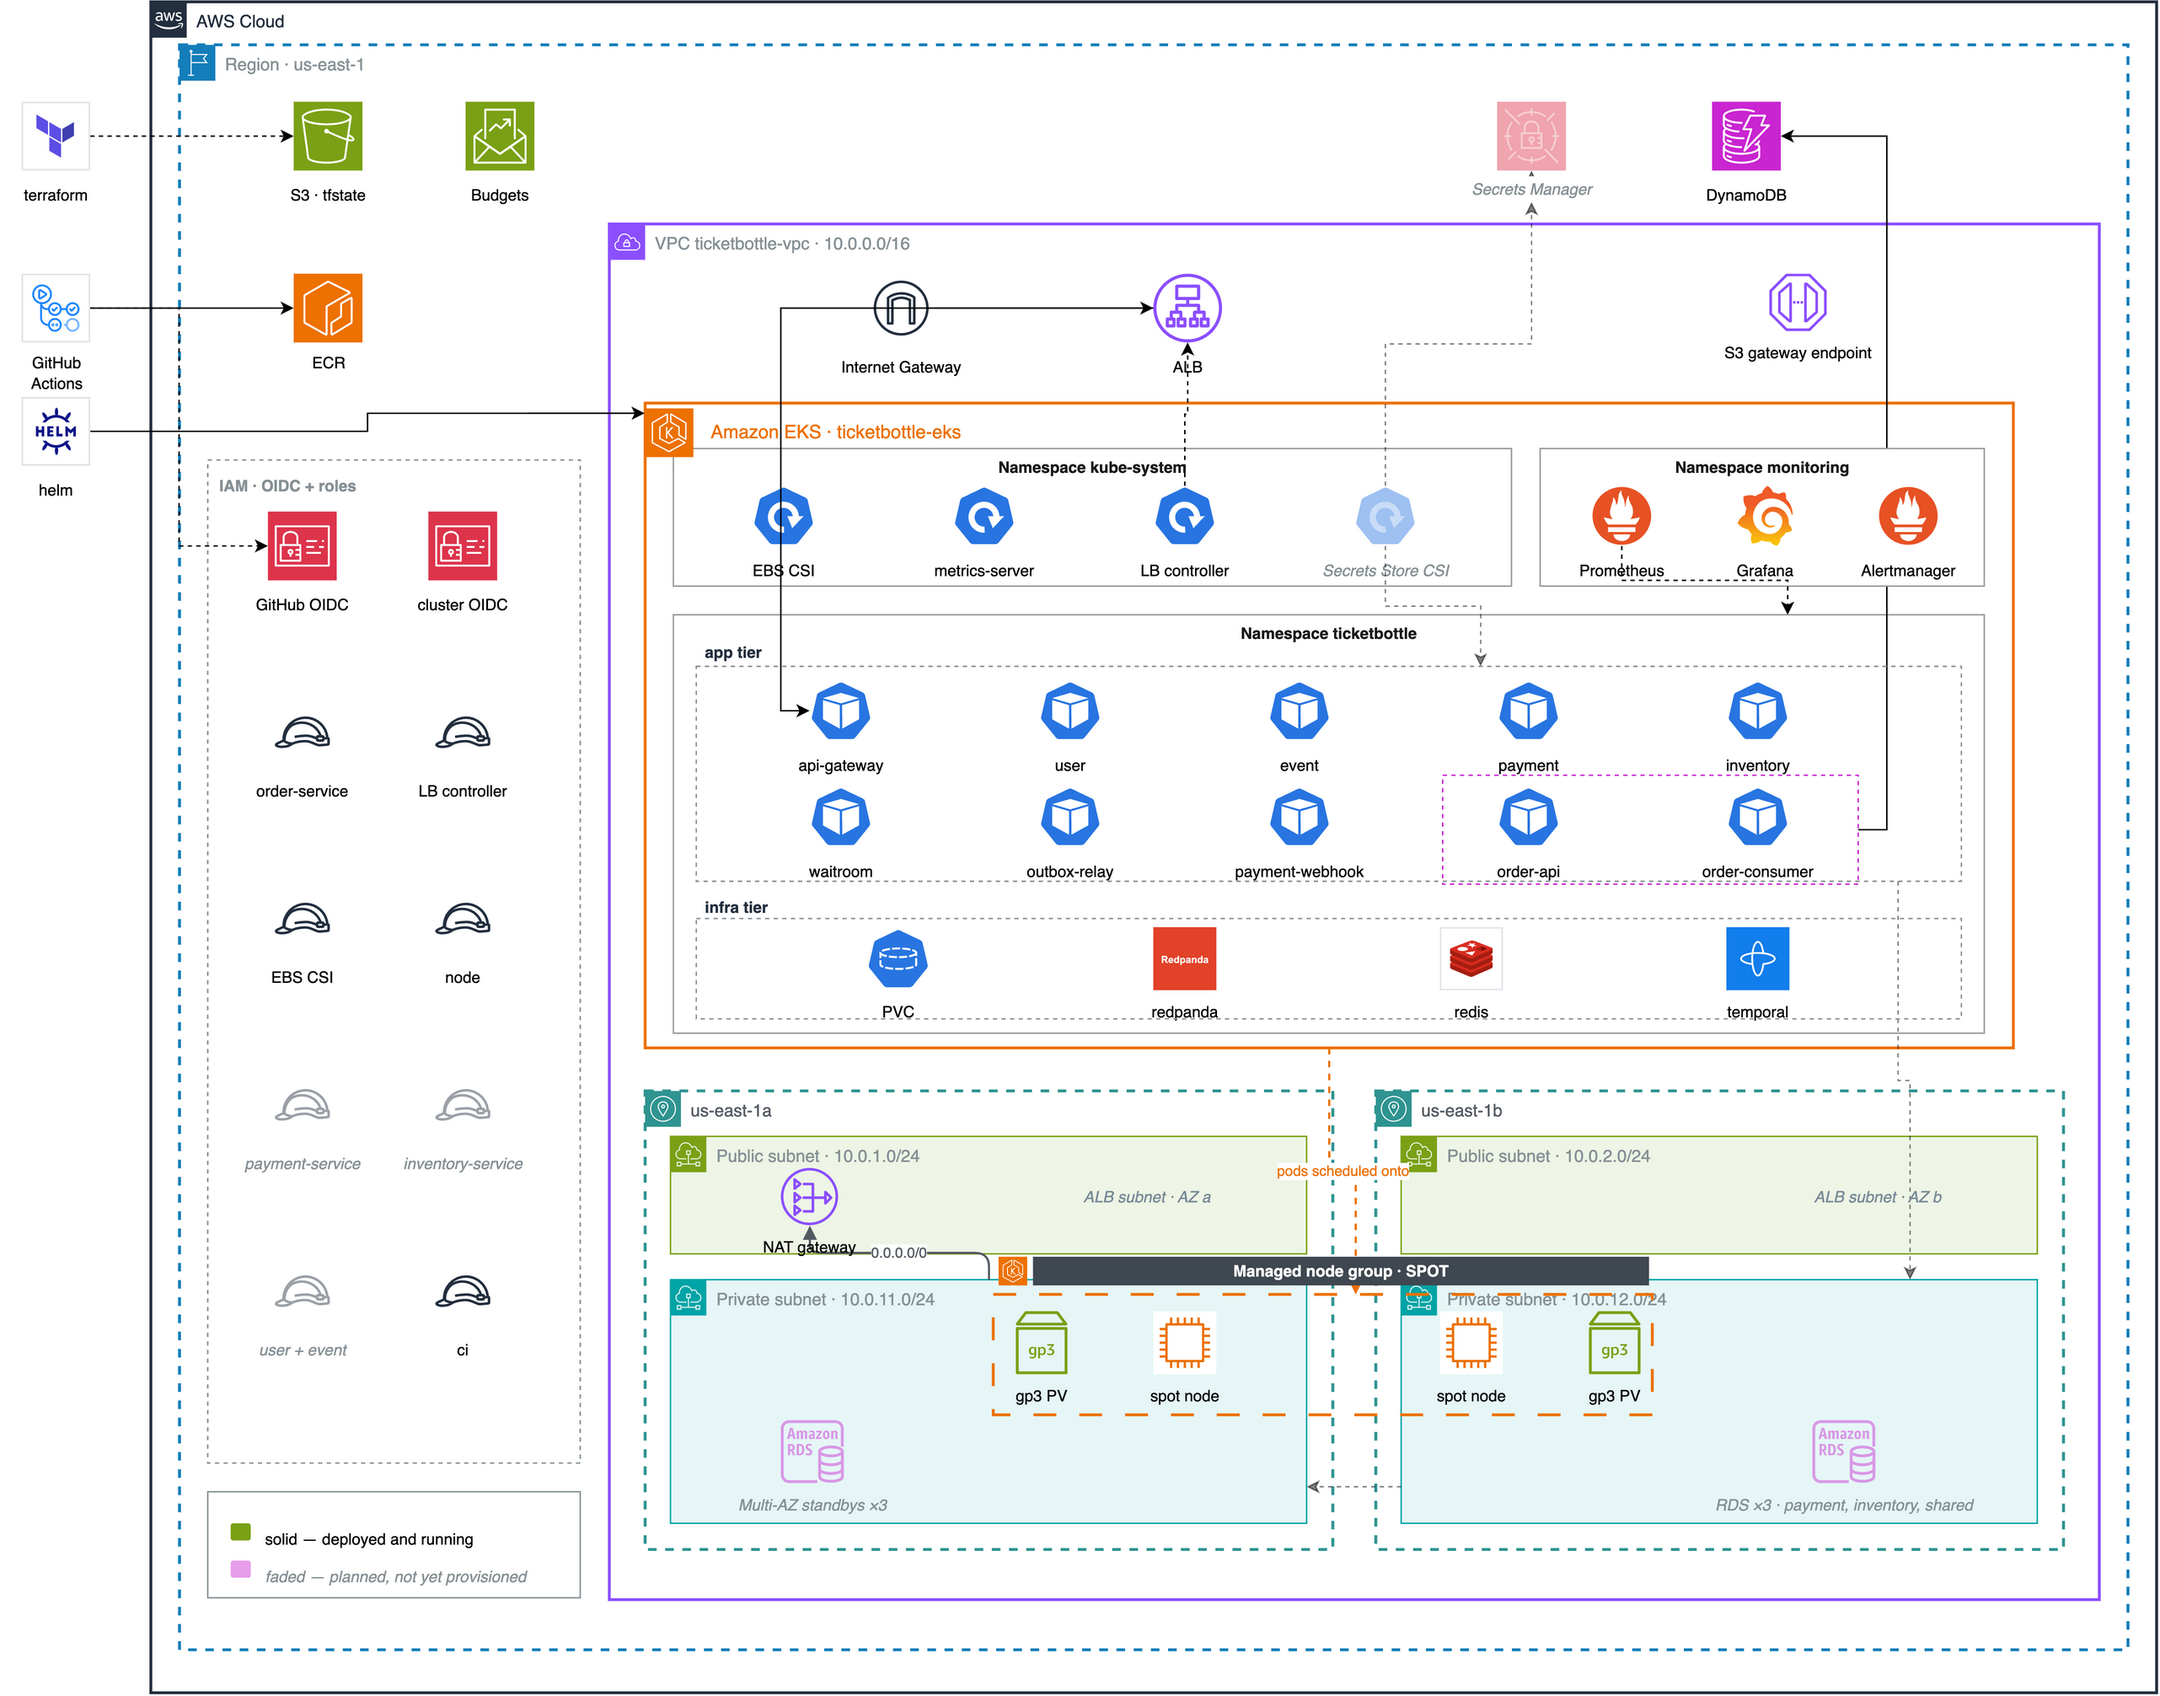
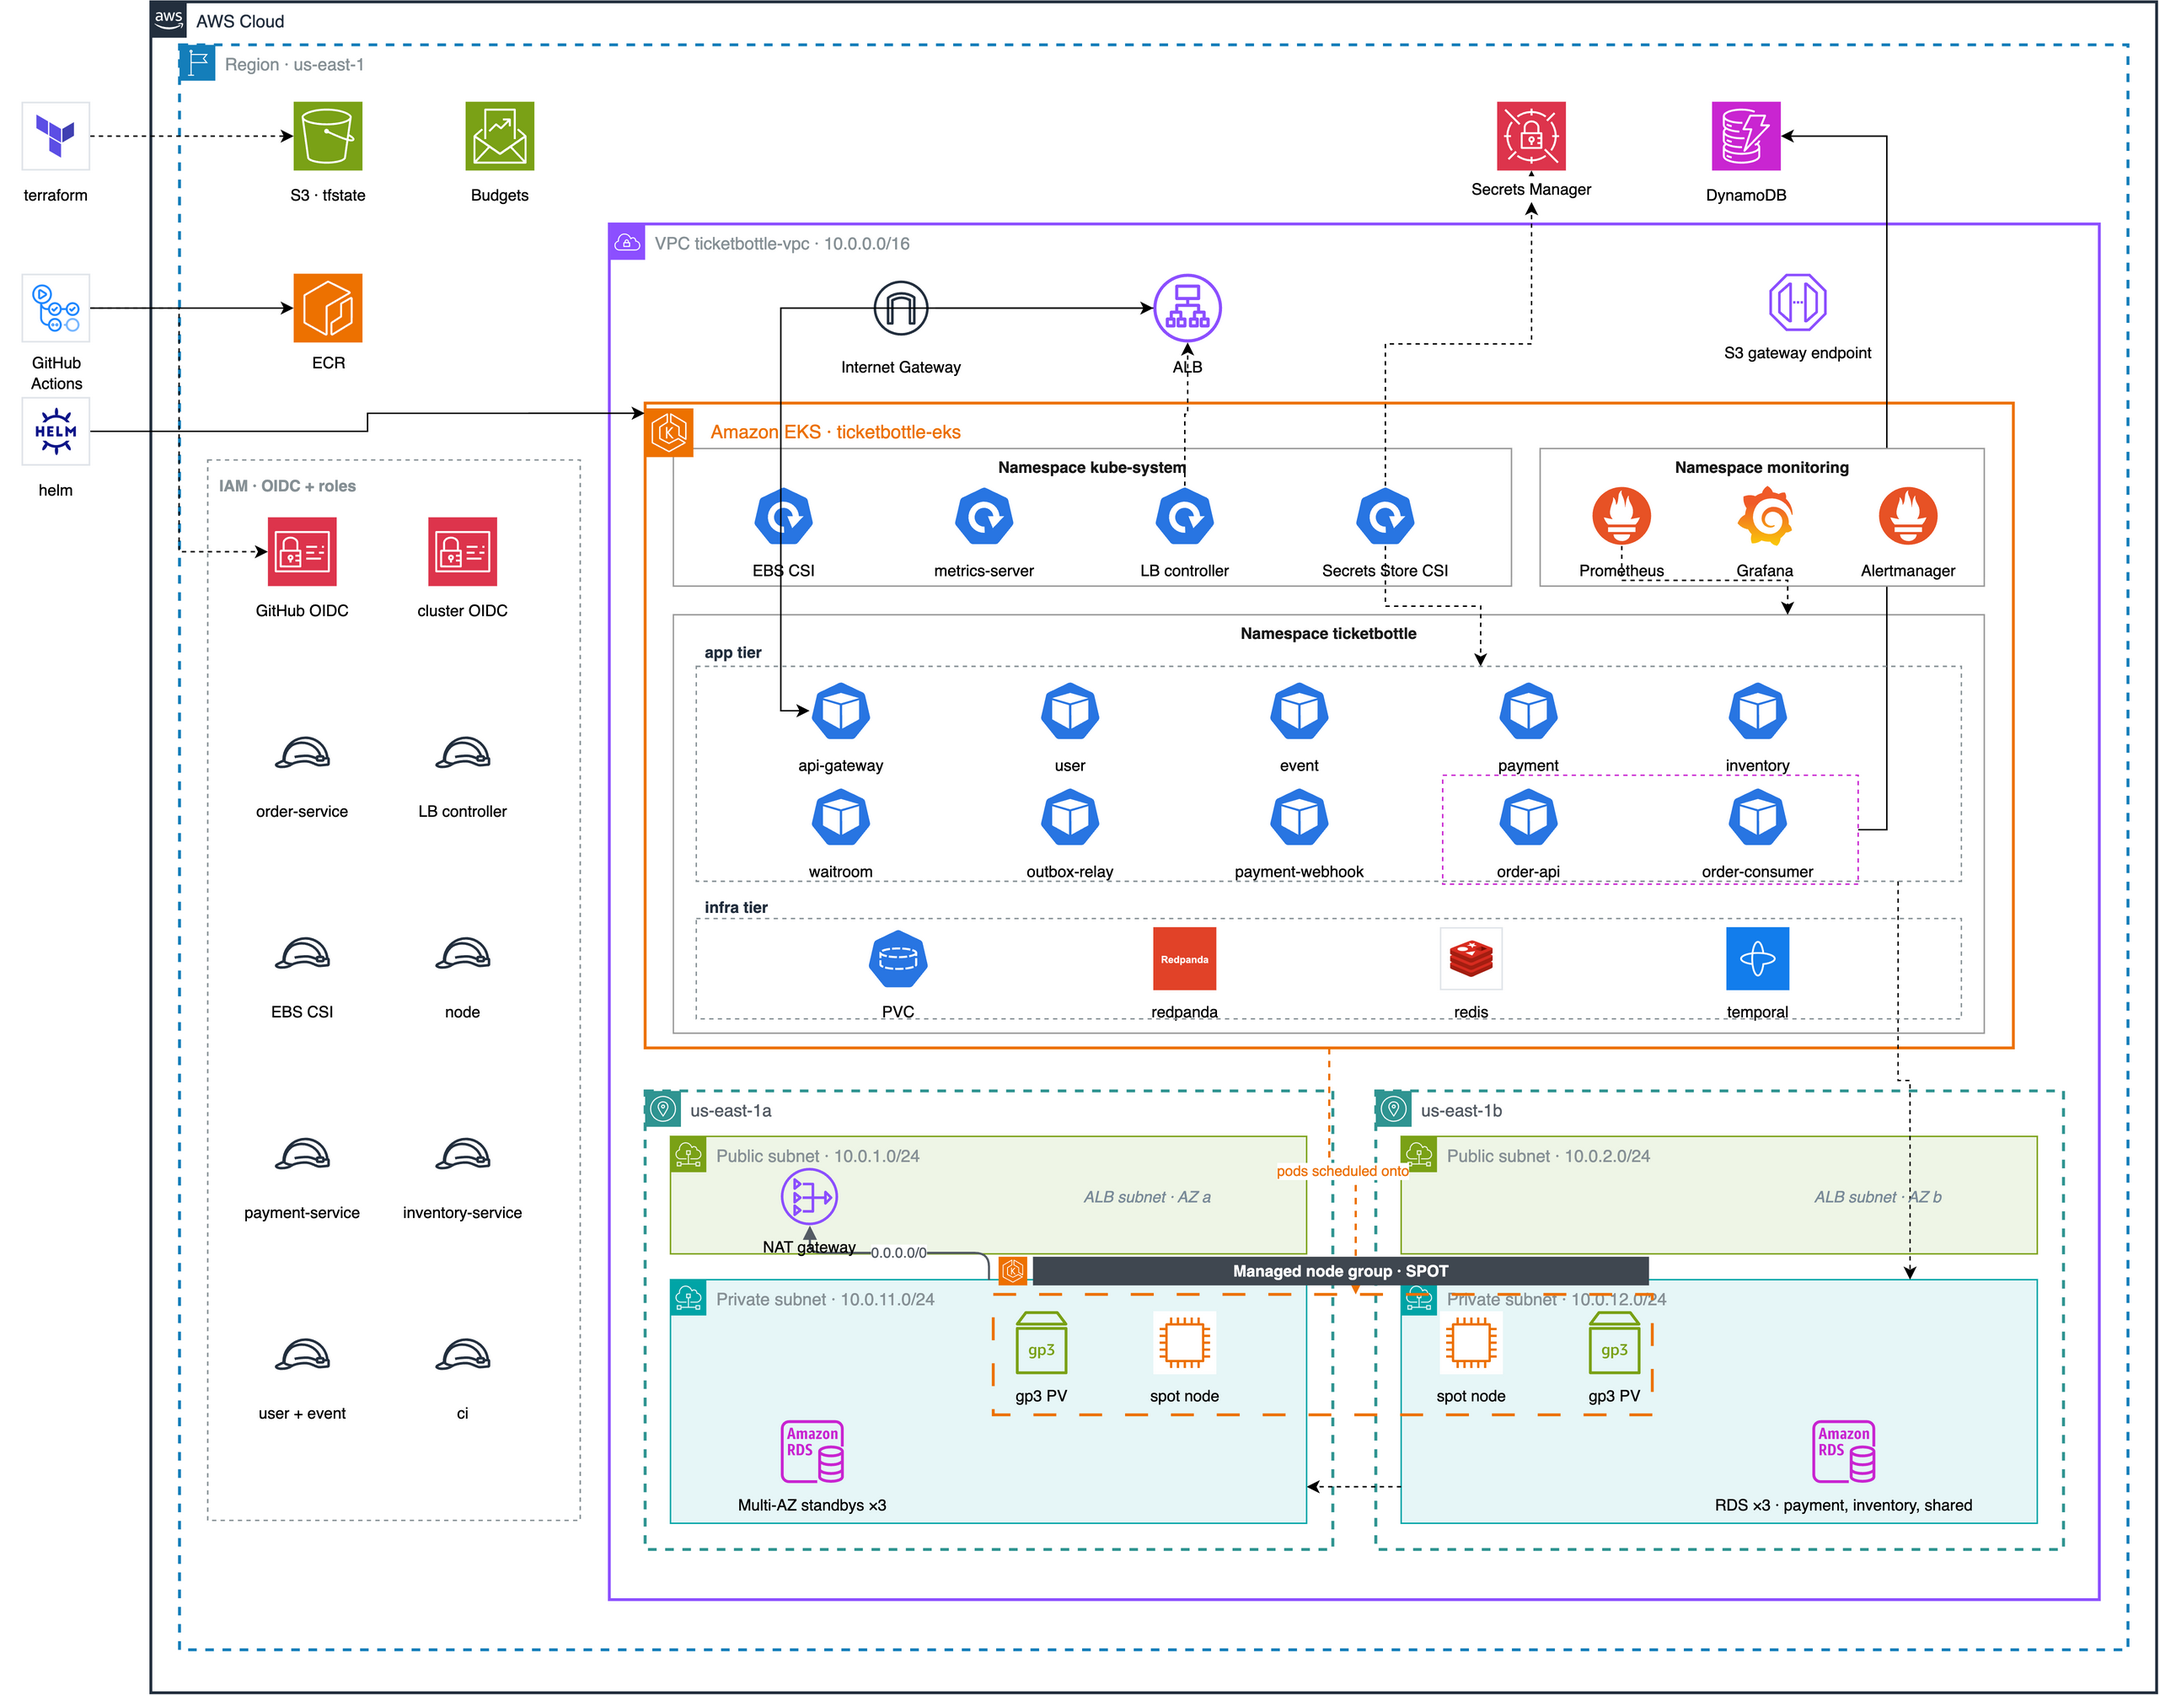
docs: draw the architecture as one target end state
The diagram carried a legend splitting it into what runs today and what does
not, which made a target architecture double as a progress report. It reads as
a single coherent design now: every element drawn the same, no build-state
axis, and the IAM column expanded into the space the legend held.

diff --git a/README.md b/README.md
@@ -49,11 +49,6 @@ A single HTTP gateway is the only public entry point; every service behind it sp
 
 ![TicketBottle architecture on Amazon EKS](assets/eks-arc.png)
 
-Elements drawn faded are designed and not yet built: the three RDS instances that split
-Postgres by failure domain, their Multi-AZ standbys, Secrets Manager behind the Secrets
-Store CSI driver, and the per-service IAM roles those two need. Everything drawn solid
-has run on a real cluster.
-
 The node group sits in private subnets and reaches the internet through a NAT gateway,
 which is the layout AWS recommends. Both are created by the ephemeral `envs/eks` stack,
 so `terraform destroy` takes the NAT's meter with it — see `private_nodes` under
